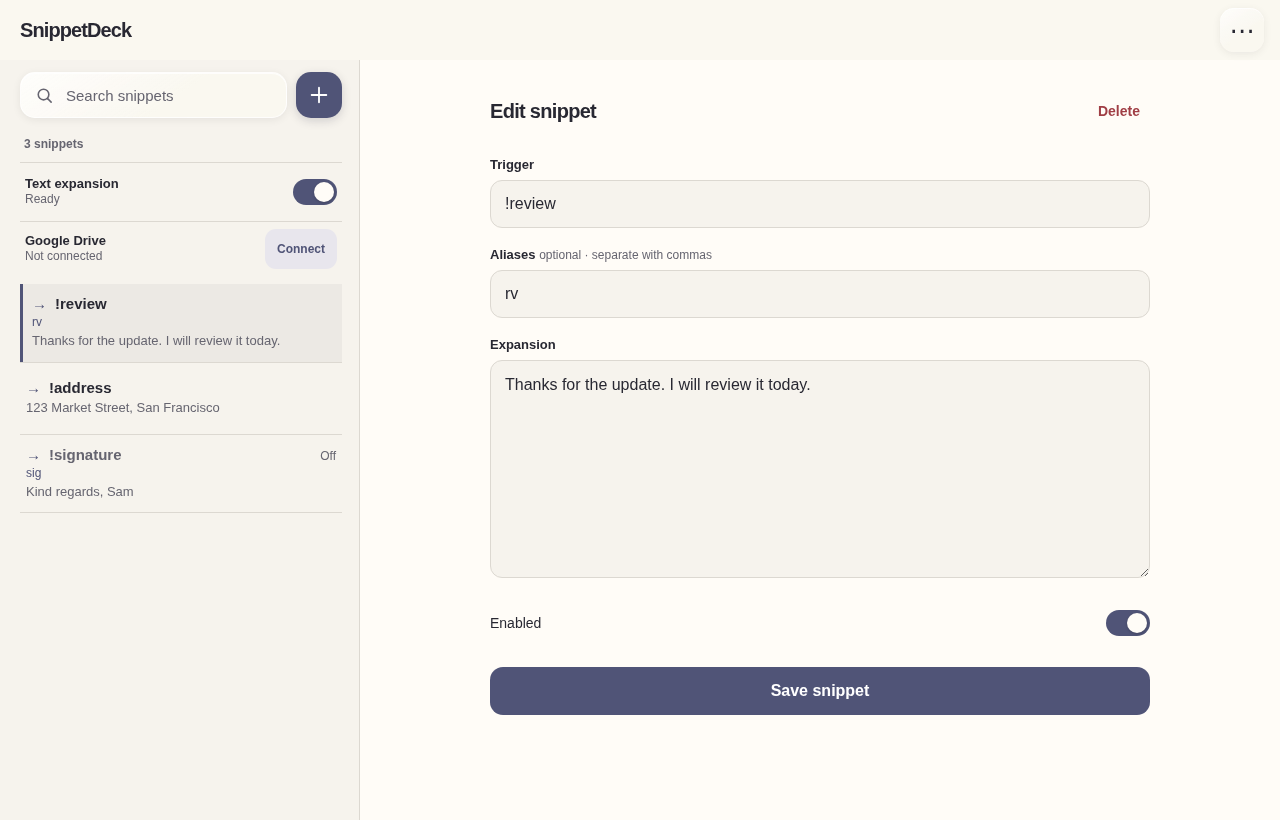
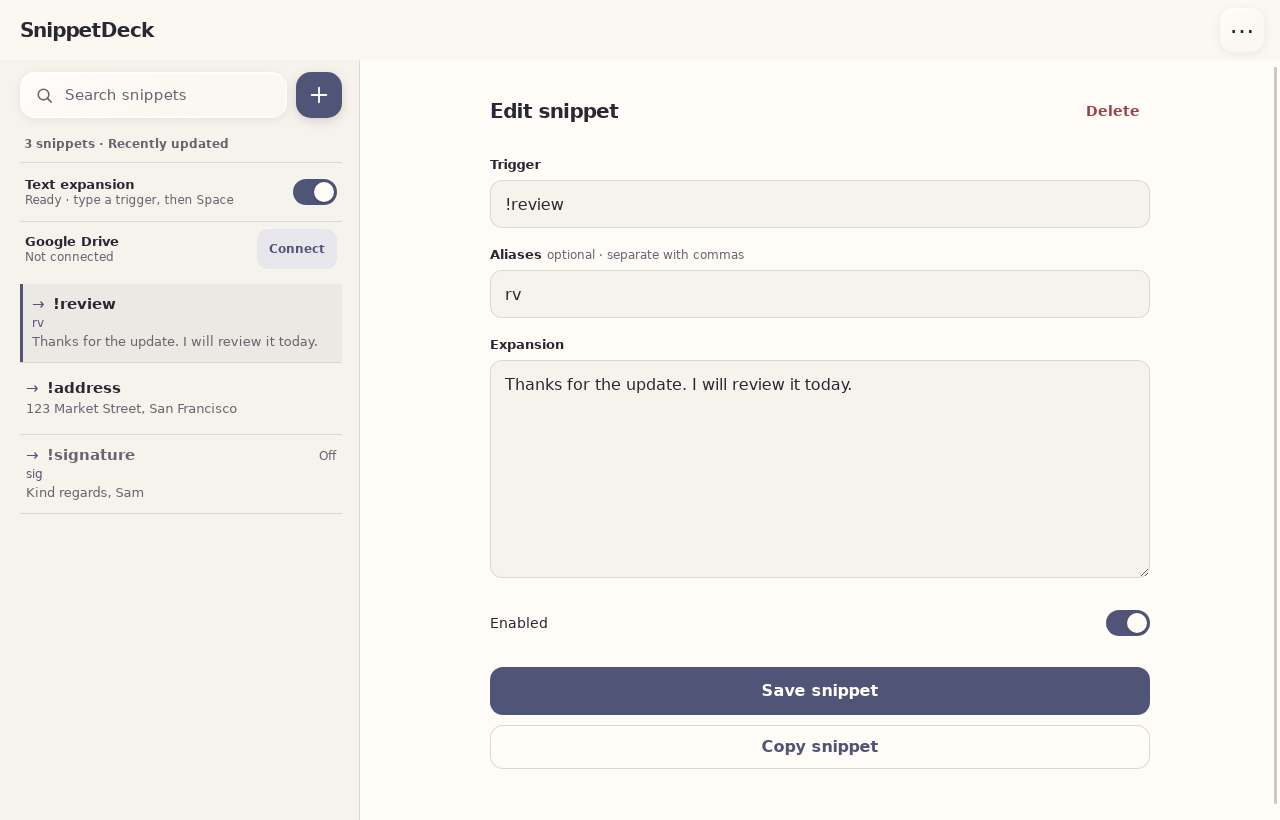
Show recently updated snippets first across platforms for v1.9.1

diff --git a/app/src/androidTest/java/com/rrajath/expander/SnippetDatabaseTest.kt b/app/src/androidTest/java/com/rrajath/expander/SnippetDatabaseTest.kt
@@ -10,6 +10,7 @@ import com.rrajath.expander.util.SnippetBackupCodec
 import android.net.Uri
 import java.io.File
 import kotlinx.coroutines.runBlocking
+import kotlinx.coroutines.flow.first
 import org.junit.Assert.assertEquals
 import org.junit.Assert.assertTrue
 import org.junit.Test
@@ -17,6 +18,31 @@ import org.junit.runner.RunWith
 
 @RunWith(AndroidJUnit4::class)
 class SnippetDatabaseTest {
+    @Test
+    fun libraryShowsRecentChangesWithStableTiesAfterRestore() = runBlocking {
+        val context = InstrumentationRegistry.getInstrumentation().targetContext
+        val database = Room.inMemoryDatabaseBuilder(context, AppDatabase::class.java).build()
+        try {
+            val dao = database.snippetDao()
+            val snippets = listOf(
+                Snippet(trigger = "!old", expansion = "Old", updatedAt = 10),
+                Snippet(trigger = "!Beta", expansion = "Tied", updatedAt = 20),
+                Snippet(trigger = "!alpha", expansion = "Tied", updatedAt = 20),
+                Snippet(trigger = "!new", expansion = "New", isEnabled = false, updatedAt = 30),
+            )
+            dao.replaceAll(snippets)
+            val expected = listOf("!new", "!alpha", "!Beta", "!old")
+            assertEquals(expected, dao.getAllSnippets().first().map { it.trigger })
+            dao.replaceAll(snippets.reversed())
+            assertEquals(expected, dao.getAllSnippets().first().map { it.trigger })
+            val old = dao.getAllSnippetsOnce().first { it.trigger == "!old" }
+            dao.saveChecked(old.copy(expansion = "Edited", updatedAt = 40), old)
+            assertEquals("!old", dao.getAllSnippets().first().first().trigger)
+        } finally {
+            database.close()
+        }
+    }
+
     @Test
     fun singleImportPreservesOtherRowsAndRejectsStaleOrAmbiguousMatches() = runBlocking {
         val context = InstrumentationRegistry.getInstrumentation().targetContext

diff --git a/app/src/main/java/com/rrajath/expander/ui/screens/SnippetListScreen.kt b/app/src/main/java/com/rrajath/expander/ui/screens/SnippetListScreen.kt
@@ -98,8 +98,8 @@ internal fun SnippetListScreen(
             }
             item {
                 Text(
-                    text = if (searchQuery.isEmpty()) "${snippets.size} ${if (snippets.size == 1) "snippet" else "snippets"}" else "${snippets.size} found",
-                    modifier = Modifier.padding(start = 20.dp, top = 10.dp, bottom = 9.dp),
+                    text = (if (searchQuery.isEmpty()) "${snippets.size} ${if (snippets.size == 1) "snippet" else "snippets"}" else "${snippets.size} found") + " · Recently updated",
+                    modifier = Modifier.padding(start = 20.dp, end = 20.dp, top = 10.dp, bottom = 9.dp),
                     style = MaterialTheme.typography.labelMedium,
                     color = colors.onSurfaceVariant,
                 )

diff --git a/desktop/ui/app.js b/desktop/ui/app.js
@@ -71,7 +71,7 @@ function render() {
   const query = $('search').value.toLocaleLowerCase().trim();
   const filtered = snippets.filter(s => [s.trigger, s.expansion, ...s.aliases]
     .some(value => value.toLocaleLowerCase().includes(query)));
-  $('count').textContent = `${filtered.length} ${filtered.length === 1 ? 'snippet' : 'snippets'}`;
+  $('count').textContent = `${filtered.length} ${filtered.length === 1 ? 'snippet' : 'snippets'} · Recently updated`;
   $('empty').hidden = filtered.length !== 0;
   $('empty').textContent = libraryError ? 'The saved library could not be opened. Import a backup from More options to recover it.' : snippets.length ? 'No matching snippets.' : 'No snippets yet. Add one to get started.';
   const list = $('list');

diff --git a/app/src/main/java/com/rrajath/expander/data/SnippetDao.kt b/app/src/main/java/com/rrajath/expander/data/SnippetDao.kt
@@ -7,7 +7,7 @@ import com.rrajath.expander.domain.TriggerUtils
 
 @Dao
 interface SnippetDao {
-    @Query("SELECT * FROM snippets ORDER BY updatedAt DESC")
+    @Query("SELECT * FROM snippets ORDER BY updatedAt DESC, trigger COLLATE NOCASE ASC")
     fun getAllSnippets(): Flow<List<Snippet>>
 
     @Query("SELECT * FROM snippets WHERE isEnabled = 1")

diff --git a/desktop/src-tauri/src/library.rs b/desktop/src-tauri/src/library.rs
@@ -3,6 +3,7 @@ use chrono::Utc;
 use flate2::{read::GzDecoder, write::GzEncoder, Compression};
 use serde::{Deserialize, Serialize};
 use std::{
+    cmp::Reverse,
     collections::HashSet,
     fs,
     io::{Read, Write},
@@ -50,6 +51,13 @@ pub struct Library {
 }
 
 impl Library {
+    pub fn recently_updated(&self) -> Vec<Snippet> {
+        let mut snippets = self.snippets.clone();
+        // Match Android's updatedAt DESC, trigger COLLATE NOCASE ASC ordering.
+        snippets.sort_by_cached_key(|s| (Reverse(s.updated_at), s.trigger.to_ascii_lowercase()));
+        snippets
+    }
+
     pub fn load(path: &Path) -> Result<Self, String> {
         if !path.exists() {
             return Ok(Self::default());
@@ -321,6 +329,44 @@ fn normalize_primary(value: &str) -> String {
 #[cfg(test)]
 mod tests {
     use super::*;
+
+    #[test]
+    fn recent_order_survives_storage_order_edits_and_imports() {
+        let mut library = Library::decode(
+            r#"[{"trigger":"!old","expansion":"Old","updatedAt":10},
+                {"trigger":"!Beta","expansion":"Tied","updatedAt":20},
+                {"trigger":"!alpha","expansion":"Tied","updatedAt":20},
+                {"trigger":"!new","expansion":"New","enabled":false,"updatedAt":30}]"#,
+        )
+        .unwrap();
+        let before = library.snippets.clone();
+        let triggers = |library: &Library| {
+            library
+                .recently_updated()
+                .into_iter()
+                .map(|s| s.trigger)
+                .collect::<Vec<_>>()
+        };
+        assert_eq!(triggers(&library), ["!new", "!alpha", "!Beta", "!old"]);
+        assert!(library.snippets == before);
+        library.snippets.reverse();
+        assert_eq!(triggers(&library), ["!new", "!alpha", "!Beta", "!old"]);
+        let mut edited = before[0].clone();
+        edited.expansion = "Edited".into();
+        library.put(Some("!old"), edited).unwrap();
+        assert_eq!(triggers(&library)[0], "!old");
+        let added = Library::decode(r#"[{"trigger":"!added","expansion":"Added"}]"#)
+            .unwrap()
+            .snippets
+            .remove(0);
+        library.import_single(added, None).unwrap();
+        assert!(library.recently_updated()[..2]
+            .iter()
+            .any(|s| s.trigger == "!added"));
+        let restored = Library::decode(&library.encode().unwrap()).unwrap();
+        assert_eq!(triggers(&restored), triggers(&library));
+        assert!(Library::default().recently_updated().is_empty());
+    }
 
     #[test]
     fn single_transfer_matches_shortcuts_and_preserves_unrelated_snippets() {

diff --git a/desktop/src-tauri/src/main.rs b/desktop/src-tauri/src/main.rs
@@ -164,7 +164,7 @@ fn snapshot_uses_the_field_names_read_by_the_editor() {
 #[tauri::command]
 fn snapshot(app: tauri::AppHandle, state: tauri::State<'_, AppState>) -> Snapshot {
     Snapshot {
-        snippets: state.library.lock().unwrap().snippets.clone(),
+        snippets: state.library.lock().unwrap().recently_updated(),
         library_error: state.library_error.lock().unwrap().clone(),
         active: state.expander.enabled.load(Ordering::Relaxed),
         start_at_login: app.autolaunch().is_enabled().unwrap_or(false),

diff --git a/docs/GUIDE.md b/docs/GUIDE.md
@@ -34,6 +34,8 @@ On desktop, the editor closes while the expansion agent remains in the tray. Reo
 
 Save before closing the editor or app. Android keeps a draft across activity recreation while its editor destination remains open; drafts are not saved backups. With Drive connected, deleting a snippet also removes it from the other devices on their next sync.
 
+On every platform, the library shows recently updated snippets first. Creating, saving, or turning a snippet on or off moves it to the top; expanding it leaves the order alone. Equal update times are ordered by trigger. Search keeps this order, including after importing or syncing a library.
+
 ## Date and time
 
 Placeholders use the device's local time at insertion. Repeated placeholders in one expansion use the same instant.
